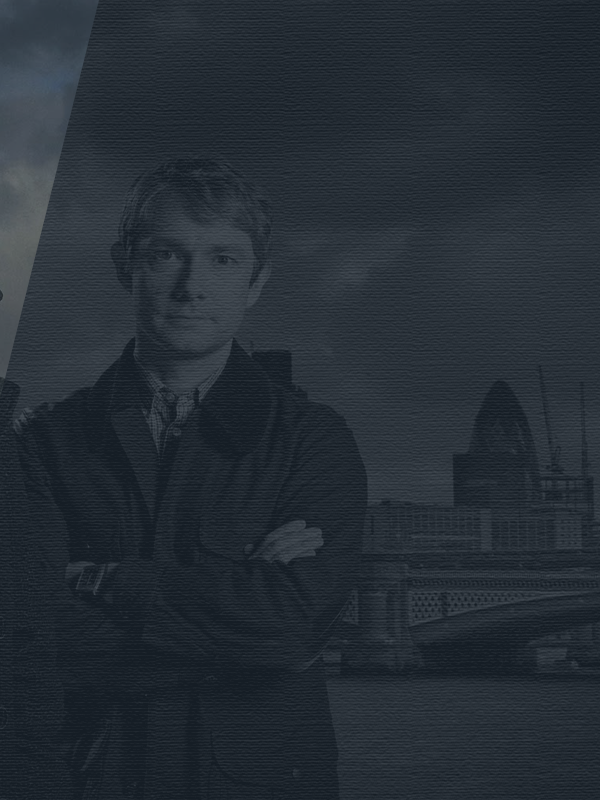
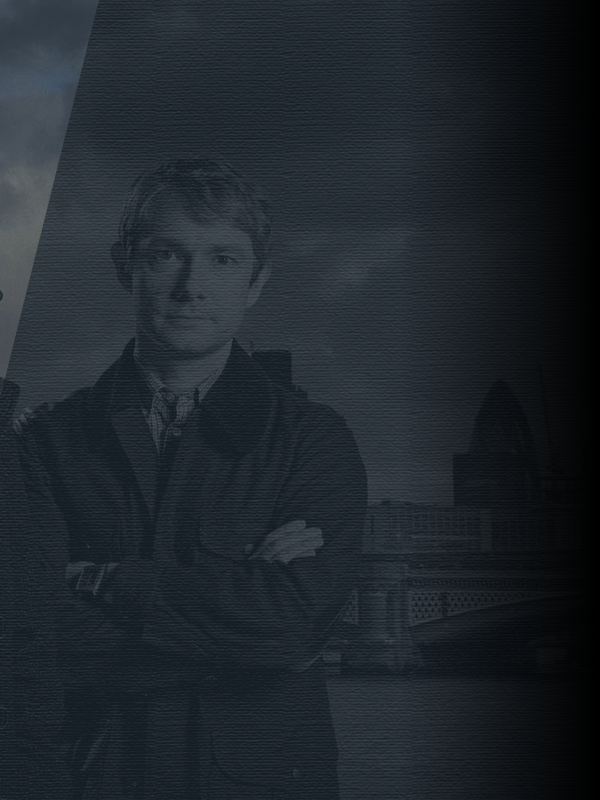
fixed background color and image transition border

Changed region(s): [[0.78, 0.0, 1.0, 1.0]]

diff --git a/config/models.js b/config/models.js
@@ -18,7 +18,7 @@ module.exports.models = {
    *                                                                          *
    ***************************************************************************/
   //connection: 'localDiskDb', //use this if for development
-  //connection: 'mongodbServer',
+  connection: 'mongodbServer',
 
   /***************************************************************************
    *                                                                          *

diff --git a/assets/styles/sharedstyles.css b/assets/styles/sharedstyles.css
@@ -31,7 +31,7 @@ html, body {
   margin: 0px;
 
   background-color: black;
-  overflow-x:hidden; 
+  overflow-x:hidden;
 }
 
 
@@ -78,13 +78,13 @@ html, body {
 
 #backgroundswitch-leftcolumn {
   width: 50%;
-  background-color: #111;
+  background-color: #000;
   margin-top: -100vh;
 }
 
 #backgroundswitch-rightcolumn {
   width: 50%;
-  background-color: #111;
+  background-color: #000;
 }
 
 .backgroundswitch-col-top, .backgroundswitch-col-bottom{
